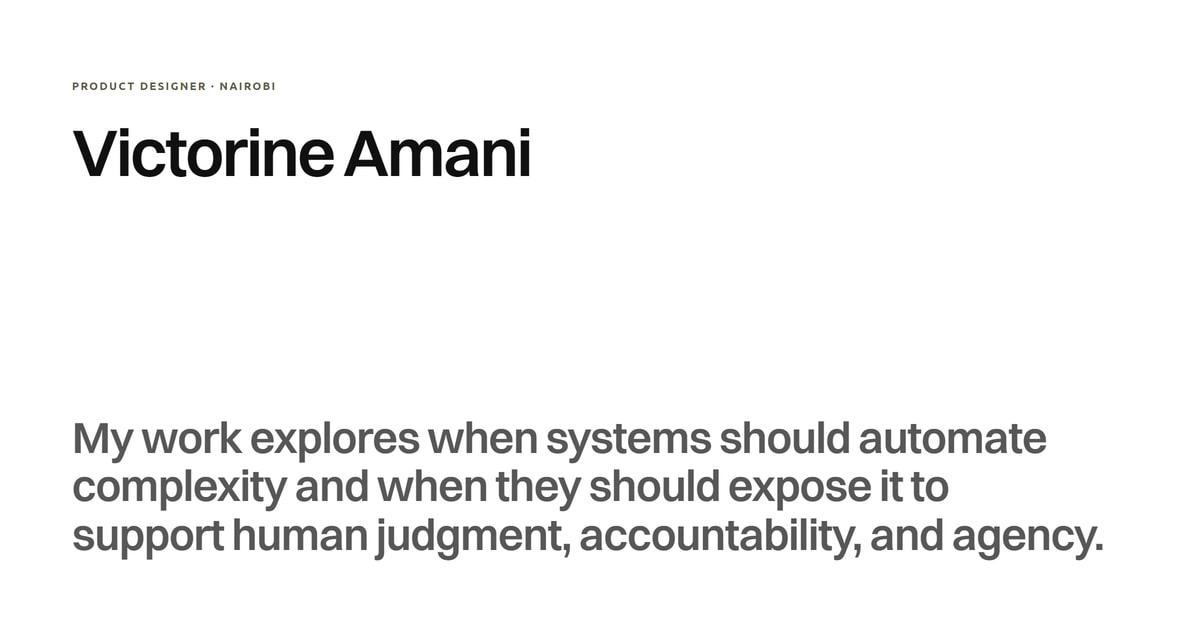
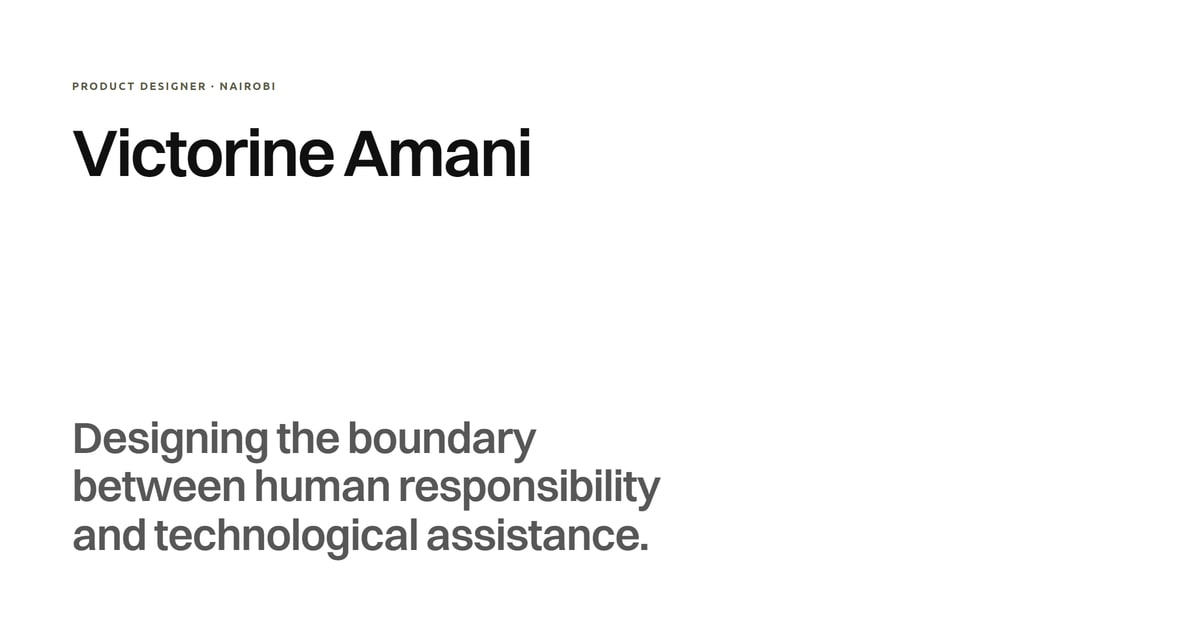
The homepage leads with the thesis
"Designing the boundary between human responsibility and technological
assistance." replaces the twenty-five-word version. It is the sentence
both case studies now name at the decision that proves it, so a reader
meets the claim here and meets it twice more as a conclusion.

Held at a reading measure rather than run to the full width. The old
sentence needed the whole page or it became a wall; eleven words do not,
and kept short it lands as a claim rather than a paragraph.

The share card follows it, since a card that says something the page no
longer says is a card for a different page.

The meta description keeps the longer wording. It is doing a different
job — a search result wants the sentence that explains the claim, not the
claim on its own.

Changed region(s): [[0.0617, 0.6635, 0.925, 0.9048]]

diff --git a/src/routes/index.tsx b/src/routes/index.tsx
@@ -73,13 +73,14 @@ function Index() {
       <section>
         <Gutter className="pt-16 pb-14 sm:pt-24 sm:pb-20">
           <Label className="block text-olive">Product Designer · Nairobi</Label>
-          {/* One claim, made once. The eyebrow already carries the role and the
-              city, so neither is said again below it. Twenty-five words at
-              display size wants the whole measure: capped at a reading width
-              it runs to six lines, and the claim turns into a wall. */}
-          <h1 className="mt-7 type-display">
-            My work explores when systems should automate complexity and when they should expose it to support human judgment, accountability, and agency.
-          </h1>
+          {/* One claim, made once. The eyebrow already carries the role and
+              the city, so neither is said again below it. This is the sentence
+              both case studies name at the decision that proves it, so a
+              reader meets it here and meets it again as a conclusion twice
+              over. Capped at a reading measure rather than run to the full
+              width: at eleven words it does not need the whole page, and held
+              short it lands as a claim rather than a paragraph. */}
+          <h1 className="mt-7 max-w-[20ch] type-display">Designing the boundary between human responsibility and technological assistance.</h1>
           <ul className="mt-9 space-y-1.5 type-label font-semibold text-ink/60">
             <li>Practice · 2023 / Present</li>
             {/* The four disciplines the work actually evidences, and no more:
